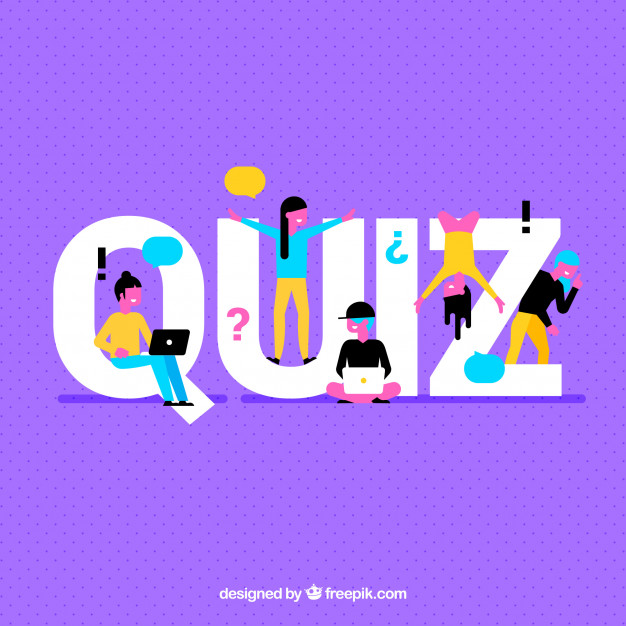
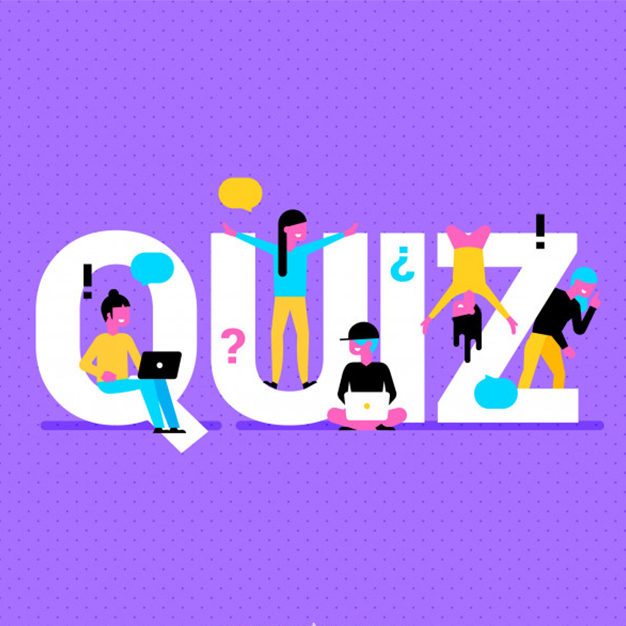
technical page updated --- pictures

Changed region(s): [[0.0304, 0.2428, 0.9712, 0.7284], [0.3339, 0.9409, 0.6677, 0.9712]]

diff --git a/technical.html b/technical.html
@@ -25,7 +25,7 @@
 <link href=css/responsive.css rel=stylesheet>
 <header class=header_area>
     <div class=main_menu>
-        <nav class="navbar navbar-expand-lg navbar-light">
+        <nav class="navbar navbar-expand-lg navbar-light header_area_black_color">
             <div class="container box_1620">
                 <a href=http://www.sirmvit.edu class="logo_h navbar-brand" target=_blank><img alt=Logo class=round-img height=65 src=img/collegelogo.png width=65></a>
                 <button class=navbar-toggler type=button aria-controls=navbarSupportedContent aria-expanded=false aria-label="Toggle navigation" data-target=#navbarSupportedContent data-toggle=collapse><span class=icon-bar></span> <span class=icon-bar></span> <span class=icon-bar></span></button>

diff --git a/css/style.css b/css/style.css
@@ -661,7 +661,7 @@ button:focus {
 
 .technical_area
 {
-    background: url(../img/technical.jpg) no-repeat scroll center center;
+    background: url(../img/events/technical/technical-banner.jpg) no-repeat scroll center center;
 }
 
 .special_area
